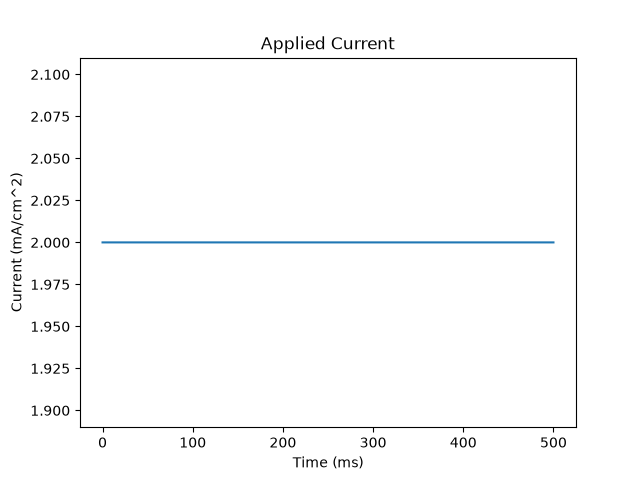
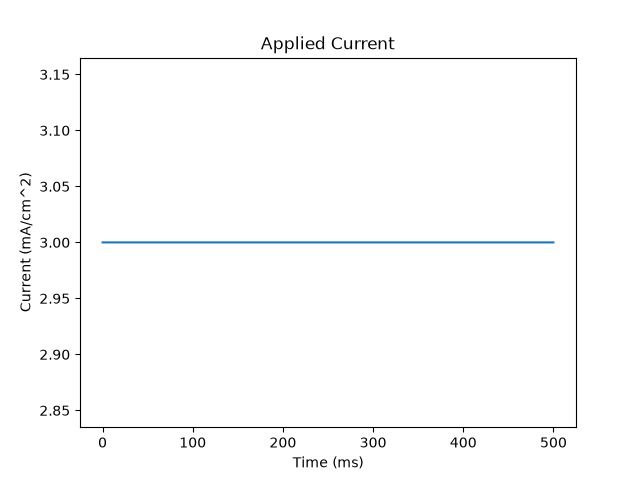
Updated to 3 uA/cm^2

diff --git a/main.py b/main.py
@@ -11,7 +11,7 @@ from ExperimentManager import ExperimentManager
 
 if __name__ == '__main__':
 #Paper from https://research-information.bris.ac.uk/ws/portalfiles/portal/3018849/pyr_neur_model_preprint.pdf
-    CoolExperiment = ExperimentManager(2)
+    CoolExperiment = ExperimentManager(3)
     # CoolExperiment.run("Optimize")
     CoolExperiment.run("Constant")
     # CoolExperiment.run("Restart")
